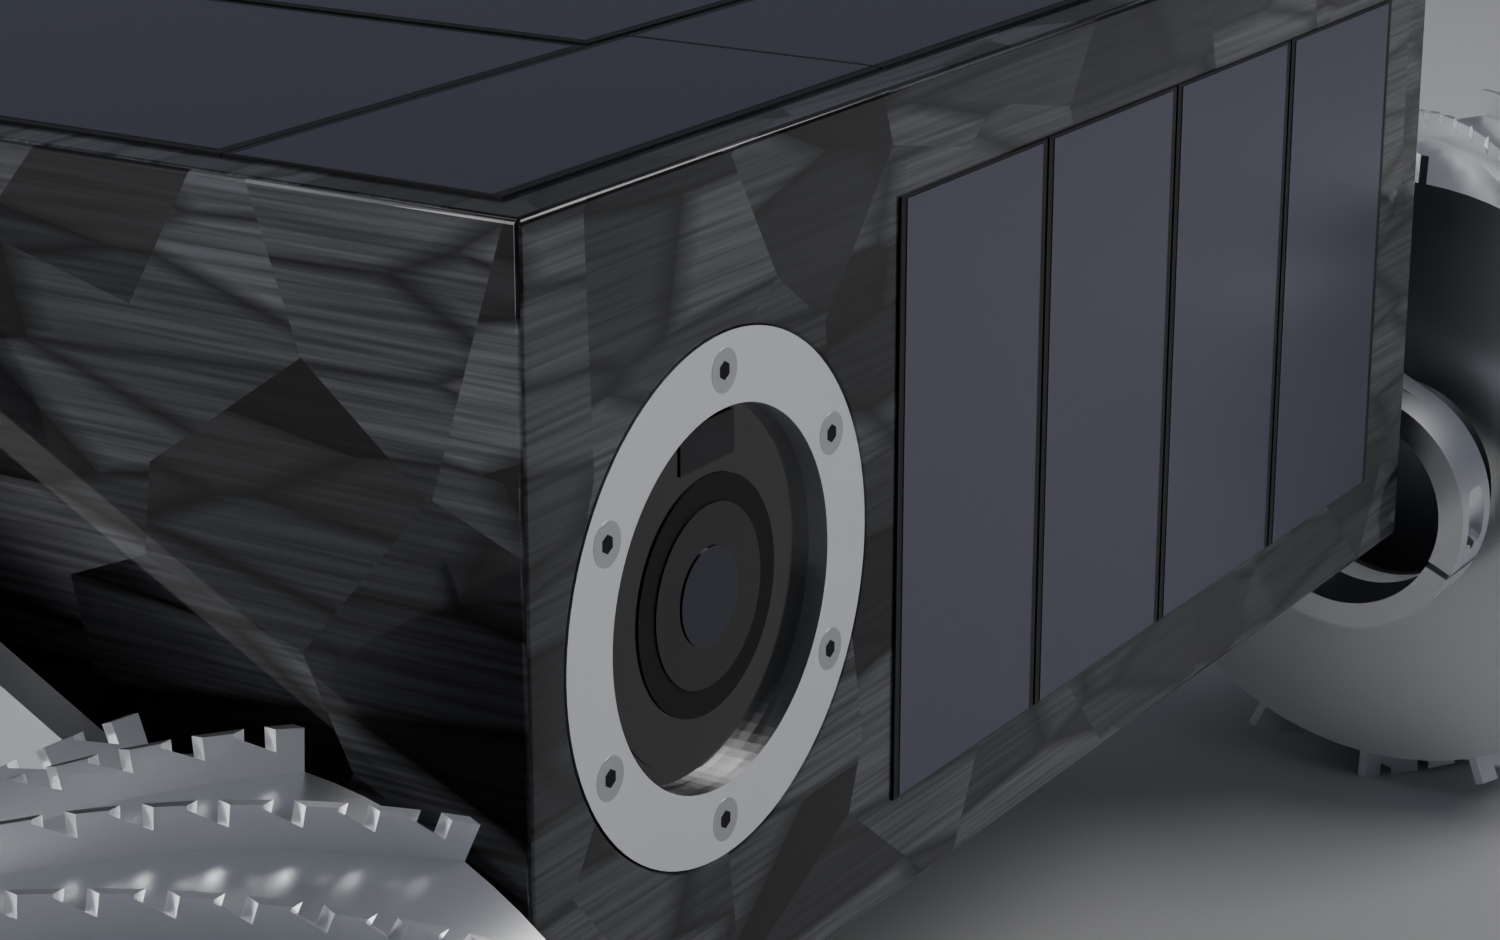
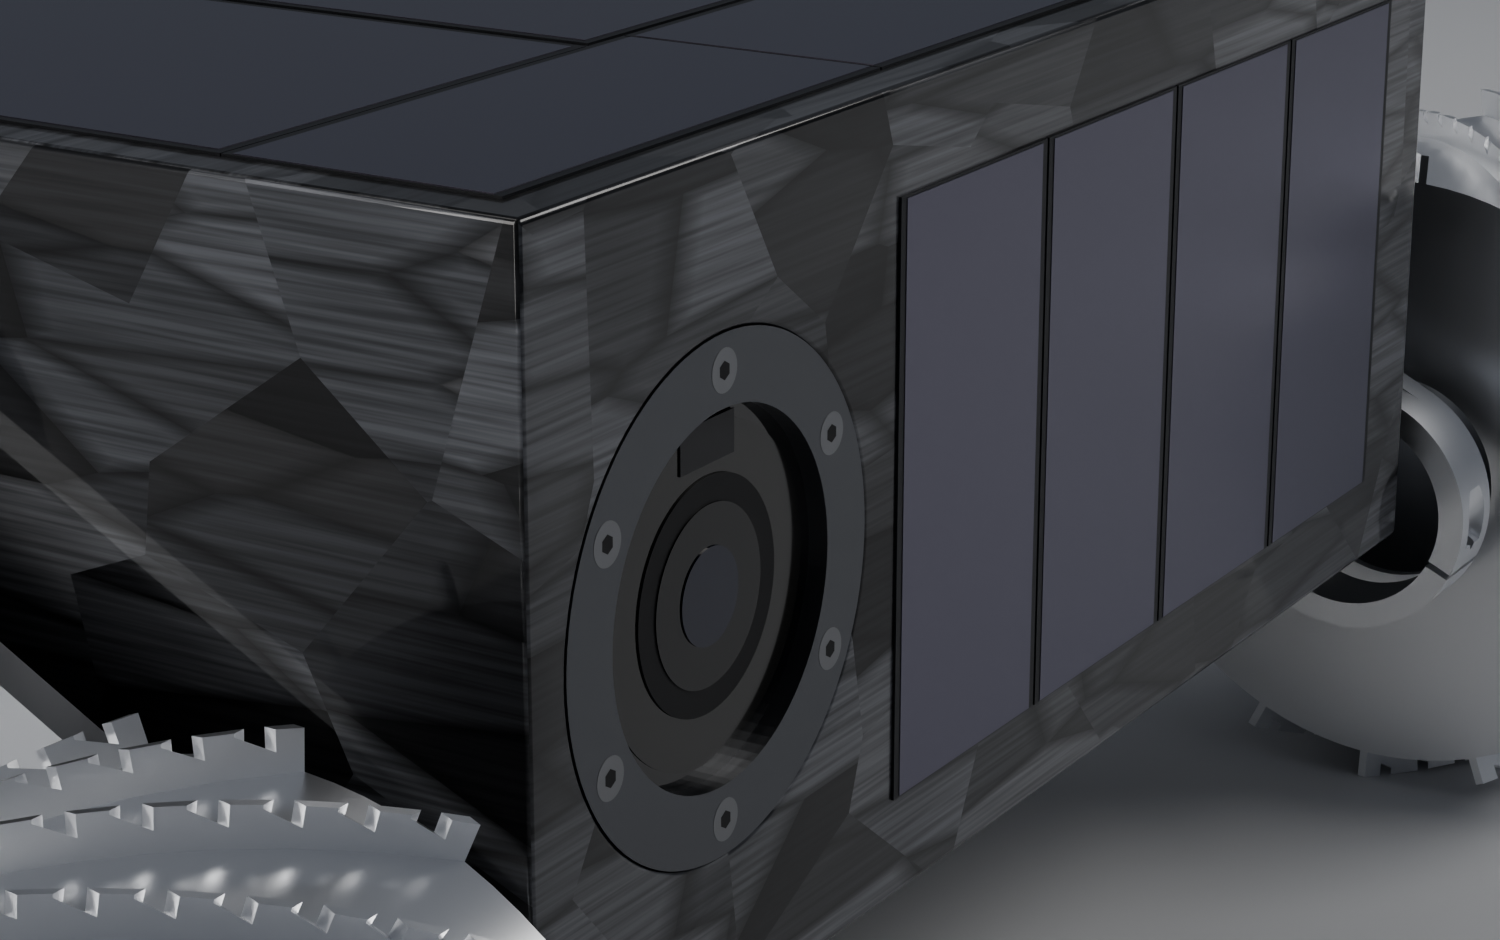
Renders R1 to R7 and R10 on the M2 (Metal): gunmetal bezel is the default
Claude-Session: https://claude.ai/code/session_01B6dv3MrM4Aoso2v5p6Apqe

Changed region(s): [[0.368, 0.3394, 0.5827, 0.9255]]

diff --git a/docs/render-jobs.md b/docs/render-jobs.md
@@ -19,16 +19,16 @@ When a change to the CAD, the layout, the materials or the camera alters what a 
 
 | Id | Image (`docs/images/`) | Settings | Expected | Why (last change) | Status | Notes |
 |---|---|---|---|---|---|---|
-| R1 | `rover-hero.png` | `VIEW=hero`, 1600x1000, 96 samples | camera end three-quarter view: carbon body, near-black cells, aluminium struts and wheels, the 26 mm window with the lens visible | the window bezel is now gunmetal by default, the chosen finish (owner, 2026-11-14): the main shot: re-render so the hero shows the gunmetal bezel; was: a bare aluminium window bezel flush with the carbon face and six flush countersunk M1.6 screws, the sapphire recessed behind it (2026-11-14, owner's taste; the window view should show a flat ring with six small hex-socket heads and a visible depth to the window), six mid-power LEDs at 10 mm radius, sensor package behind clear glass; was: window redesigned 2026-11-14 (LED ring, lens, sensor; no beamsplitter); LEDs no longer drawn when off | pending (first priority) | M2 Metal GPU: 41 s.  |
-| R2 | `rover-rear.png` | `VIEW=rear`, 1600x1000, 96 | the comms end: the square RF window plug | the window bezel is now gunmetal by default, the chosen finish (owner, 2026-11-14): the main shot of the other end (the comms end has no bezel, and a metal ring near the patch would detune it, so it stays a plain flush plug); re-render so the set matches the final lighting and finish; was: unchanged since 2026-11-13; re-render only to refresh | pending (first priority) | M2 Metal GPU: 36 s. |
-| R3 | `rover-top.png` | `VIEW=top`, 1600x1000, 96 | top lid cells, camera end up | the window bezel is now gunmetal by default, the chosen finish (owner, 2026-11-14): keep the set consistent; was: unchanged since 2026-11-13 | pending (low priority) | M2 Metal GPU: 36 s. |
-| R4 | `rover-detail.png` | `VIEW=detail`, 1500x940, 96 | the camera-end corner: the window with lens, hood, dead-front ring (no visible LED outlines now), sensor patch above the lens, four end-face cells | the window bezel is now gunmetal by default, the chosen finish (owner, 2026-11-14): the corner shot shows the bezel; was: a bare aluminium window bezel flush with the carbon face and six flush countersunk M1.6 screws, the sapphire recessed behind it (2026-11-14, owner's taste; the window view should show a flat ring with six small hex-socket heads and a visible depth to the window), six mid-power LEDs at 10 mm radius, sensor package behind clear glass; was: LED outlines removed (they showed as raised discs) | pending | M2 Metal GPU: 53 s.  |
-| R5 | `rover-cells.png` | `VIEW=cells`, 1500x940, 96 | raking close-up of the top-lid cells | the window bezel is now gunmetal by default, the chosen finish (owner, 2026-11-14): keep the set consistent; was: unchanged since 2026-11-13 | pending (low priority) | M2 Metal GPU: 22 s. |
-| R6 | `rover-window.png` | `VIEW=window`, 1500x940, 96 | straight-on close-up: glass, hood, lens, a smooth dark ring with no LED outlines, the small dark sensor patch at the top | the window bezel is now gunmetal by default, the chosen finish (owner, 2026-11-14): the close-up shows the bezel; was: a bare aluminium window bezel flush with the carbon face and six flush countersunk M1.6 screws, the sapphire recessed behind it (2026-11-14, owner's taste; the window view should show a flat ring with six small hex-socket heads and a visible depth to the window), six mid-power LEDs at 10 mm radius, sensor package behind clear glass; was: LED outlines removed | pending | M2 Metal GPU: 47 s.  |
-| R7 | `rover-window-lit.png` | `VIEW=window LED=on SUFFIX=-lit`, 1500x940, 96 | the same view with the six white LEDs lit (the lamp on during a photograph) | the window bezel is now gunmetal by default, the chosen finish (owner, 2026-11-14): the lit variant shows the bezel; was: a bare aluminium window bezel flush with the carbon face and six flush countersunk M1.6 screws, the sapphire recessed behind it (2026-11-14, owner's taste; the window view should show a flat ring with six small hex-socket heads and a visible depth to the window), six mid-power LEDs at 10 mm radius, sensor package behind clear glass; was: new variant, 2026-11-14 | pending | M2 Metal GPU: 60 s.  |
+| R1 | `rover-hero.png` | `VIEW=hero`, 1600x1000, 96 samples | camera end three-quarter view: carbon body, near-black cells, aluminium struts and wheels, the 26 mm window with the lens visible | the window bezel is now gunmetal by default, the chosen finish (owner, 2026-11-14): the main shot: re-render so the hero shows the gunmetal bezel; was: a bare aluminium window bezel flush with the carbon face and six flush countersunk M1.6 screws, the sapphire recessed behind it (2026-11-14, owner's taste; the window view should show a flat ring with six small hex-socket heads and a visible depth to the window), six mid-power LEDs at 10 mm radius, sensor package behind clear glass; was: window redesigned 2026-11-14 (LED ring, lens, sensor; no beamsplitter); LEDs no longer drawn when off | done 2026-11-14 | M2 Metal GPU: 45 s. |
+| R2 | `rover-rear.png` | `VIEW=rear`, 1600x1000, 96 | the comms end: the square RF window plug | the window bezel is now gunmetal by default, the chosen finish (owner, 2026-11-14): the main shot of the other end (the comms end has no bezel, and a metal ring near the patch would detune it, so it stays a plain flush plug); re-render so the set matches the final lighting and finish; was: unchanged since 2026-11-13; re-render only to refresh | done 2026-11-14 | M2 Metal GPU: 36 s. |
+| R3 | `rover-top.png` | `VIEW=top`, 1600x1000, 96 | top lid cells, camera end up | the window bezel is now gunmetal by default, the chosen finish (owner, 2026-11-14): keep the set consistent; was: unchanged since 2026-11-13 | done 2026-11-14 | M2 Metal GPU: 46 s. |
+| R4 | `rover-detail.png` | `VIEW=detail`, 1500x940, 96 | the camera-end corner: the window with lens, hood, dead-front ring (no visible LED outlines now), sensor patch above the lens, four end-face cells | the window bezel is now gunmetal by default, the chosen finish (owner, 2026-11-14): the corner shot shows the bezel; was: a bare aluminium window bezel flush with the carbon face and six flush countersunk M1.6 screws, the sapphire recessed behind it (2026-11-14, owner's taste; the window view should show a flat ring with six small hex-socket heads and a visible depth to the window), six mid-power LEDs at 10 mm radius, sensor package behind clear glass; was: LED outlines removed (they showed as raised discs) | done 2026-11-14 | M2 Metal GPU: 57 s. |
+| R5 | `rover-cells.png` | `VIEW=cells`, 1500x940, 96 | raking close-up of the top-lid cells | the window bezel is now gunmetal by default, the chosen finish (owner, 2026-11-14): keep the set consistent; was: unchanged since 2026-11-13 | done 2026-11-14 | M2 Metal GPU: 28 s. |
+| R6 | `rover-window.png` | `VIEW=window`, 1500x940, 96 | straight-on close-up: glass, hood, lens, a smooth dark ring with no LED outlines, the small dark sensor patch at the top | the window bezel is now gunmetal by default, the chosen finish (owner, 2026-11-14): the close-up shows the bezel; was: a bare aluminium window bezel flush with the carbon face and six flush countersunk M1.6 screws, the sapphire recessed behind it (2026-11-14, owner's taste; the window view should show a flat ring with six small hex-socket heads and a visible depth to the window), six mid-power LEDs at 10 mm radius, sensor package behind clear glass; was: LED outlines removed | done 2026-11-14 | M2 Metal GPU: 50 s. |
+| R7 | `rover-window-lit.png` | `VIEW=window LED=on SUFFIX=-lit`, 1500x940, 96 | the same view with the six white LEDs lit (the lamp on during a photograph) | the window bezel is now gunmetal by default, the chosen finish (owner, 2026-11-14): the lit variant shows the bezel; was: a bare aluminium window bezel flush with the carbon face and six flush countersunk M1.6 screws, the sapphire recessed behind it (2026-11-14, owner's taste; the window view should show a flat ring with six small hex-socket heads and a visible depth to the window), six mid-power LEDs at 10 mm radius, sensor package behind clear glass; was: new variant, 2026-11-14 | done 2026-11-14 | M2 Metal GPU: 62 s. |
 | R8 | `rover-window-black.png` | `VIEW=window BEZEL=black SUFFIX=-black`, 1500x940, 96 | the straight-on window close-up with the bezel ring and the six screws in a black oxide finish (dark charcoal, satin, against the glossy carbon) | owner asked to see a black oxide version of the bezel, 2026-11-14 | done 2026-11-14 | M2 Metal GPU: 46 s (redone on the Mac at 96 samples; the desktop CPU version was at 64). Looked at: the black ring and screws nearly disappear against the glossy carbon (black on black); only a faint satin sheen and the ring's edge show. |
 | R9 | `rover-detail-black.png` | `VIEW=detail BEZEL=black SUFFIX=-black`, 1500x940, 96 | the camera-end corner with the black bezel | same | done 2026-11-14 | M2 Metal GPU: 52 s.  |
-| R10 | `rover-window-bare.png` | `VIEW=window BEZEL=bare SUFFIX=-bare`, 1500x940, 96 | the straight-on window close-up with the bare machined aluminium ring and stainless screws (the first version, kept for comparison) | gunmetal is now the default (R6); the bare variant is kept for comparison | pending (low priority) | |
+| R10 | `rover-window-bare.png` | `VIEW=window BEZEL=bare SUFFIX=-bare`, 1500x940, 96 | the straight-on window close-up with the bare machined aluminium ring and stainless screws (the first version, kept for comparison) | gunmetal is now the default (R6); the bare variant is kept for comparison | done 2026-11-14 | M2 Metal GPU: 56 s. |
 | R11 | `rover-detail-gunmetal.png` | `VIEW=detail BEZEL=gunmetal SUFFIX=-gunmetal`, 1500x940, 96 | the camera-end corner with the gunmetal bezel | same | superseded by R4 (gunmetal is the default now); no new render needed | M2 Metal GPU: 53 s.  |
 
 The README's header image is `docs/images/rover-hero.png` (R1): when R1 is redone, the header updates by itself, so R1 is the first job to do.
@@ -39,3 +39,4 @@ The README's header image is `docs/images/rover-hero.png` (R1): when R1 is redon
 - The venv existed, so `blender_export.py` regenerated `struts.stl` and `wheels.stl` from the STEP files without the CAD chain.
 - Device reported: `METAL ['Apple M2 (GPU - 10 cores)']`. All seven jobs done; every image was opened and checked against "Expected". R6 was redone (it was the desktop's CPU test, 457 s there; 81 s here).
 - 2026-11-14 (second batch, M2): pulled, regenerated the STL meshes (struts changed), rendered R1, R4, R6, R7, R9, R11 and redid R8 and R10 at 96 samples; all on Metal, 41 to 60 s each. Every image looked at: bare-aluminium bezel flush with the carbon, six hex-socket screws, window visibly recessed, six LEDs when lit (R7). Black bezel (R8, R9): ring and screws nearly vanish against the carbon. Gunmetal (R10, R11): reads as metal, screws visible. Nothing wrong found.
+- 2026-11-14 (third batch, M2): pulled; rendered R1 to R7 and R10 with the gunmetal bezel as the default (45 to 62 s each, Metal). Looked at every image: gunmetal ring and screws read as metal against the carbon in the hero, detail, window and lit views; R10 (bare) shows the light aluminium ring; the rear, top and cells views are unchanged apart from noise. Nothing wrong found. Note: `rover-window-gunmetal.png` and `rover-detail-gunmetal.png` from the earlier batch are no longer produced by any job (gunmetal is now the default, R6 and R4) and are left in `docs/images/` for you to keep or delete.
